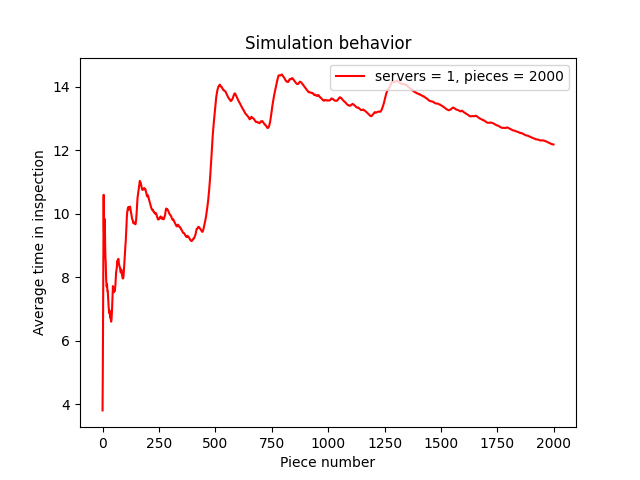
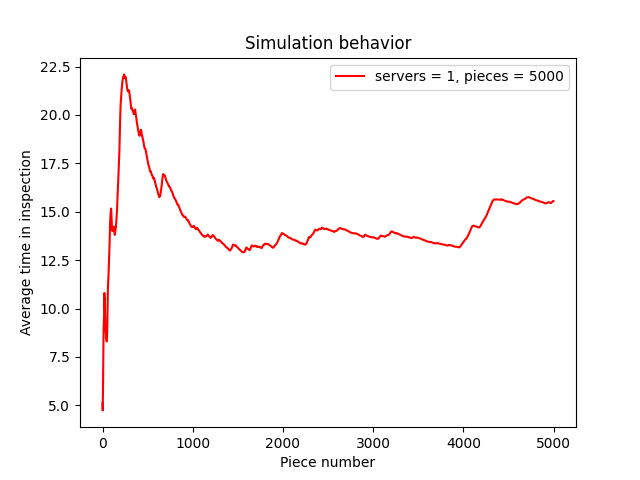
Dos servidores listos

diff --git a/two_servers.py b/two_servers.py
@@ -1,0 +1,58 @@
+import numpy as np
+from rand_tools import dist_exponential, dist_normal
+import matplotlib.pyplot as plt
+from mixto import rand_mix
+
+
+def get_n_rands(n):
+    rands = []
+    for _ in range(n):
+        rands.append(rand_mix(from_txt="txts/poker_variables"))
+    return tuple(rands)
+
+
+def run_simulation(n_pieces, l, mean, sd):
+    """
+    Funcion para simular una linea de produccion a partir de una cantidad
+    de piezas
+    """
+    inspection_times = []
+    prev_arrival = 0
+    prev_inspection_end_a = 0
+    prev_inspection_end_b = 0
+    for piece in range(n_pieces):
+        # Random values
+        r, u1, u2 = get_n_rands(3)
+        exp_t = dist_exponential(l, r)
+        norm_t = dist_normal(u1, u2, mean, sd)
+        # Arrival vals
+        arrival = prev_arrival + exp_t
+        if not prev_arrival:
+            inspection_start_a = arrival
+            inspection_start_b = 0
+            prev_inspection_end_a = inspection_start_a + norm_t
+            prev_inspection_end_b = 0
+        else:
+            inspection_start_a = arrival if prev_inspection_end_a > prev_inspection_end_b else min(prev_inspection_end_a, prev_inspection_end_b)
+            inspection_start_b = arrival if prev_inspection_end_a < prev_inspection_end_b else min(prev_inspection_end_a, prev_inspection_end_b)
+            prev_inspection_end_a = prev_inspection_end_a if inspection_start_a == 0 else inspection_start_a + norm_t
+            prev_inspection_end_b = prev_inspection_end_b if inspection_start_b == 0 else inspection_start_b + norm_t
+        prev_arrival = arrival
+        # Inspection vals
+        inspection_times.append(max(inspection_start_a, inspection_start_b) + norm_t - arrival)
+    return inspection_times
+
+
+pieces = 5000
+ins_times = run_simulation(pieces, l=5, mean=4, sd=0.5)
+
+x = range(len(ins_times))
+# Get averages
+y = [np.mean(ins_times[:piece + 1]) for piece in range(len(ins_times))]
+# Graph
+plt.title("Simulation behavior")
+plt.xlabel("Piece number")
+plt.ylabel("Average time in inspection")
+plt.plot(x, y, color="red")
+plt.legend([f"servers = {1}, pieces = {pieces}"], loc="upper right")
+plt.savefig("graphs/two_servers.png")

diff --git a/var_generator.py b/var_generator.py
@@ -74,15 +74,20 @@ def generate_variables(n):
     return variables, attempts
 
 
-if __name__ == "__main__":
+def main():
     # python3 -m timeit -n 1000 -s 'from var_generator import generate_variables' 'generate_variables(1)'
     # print(timeit(lambda: generate_variables(1), number=1000))
-    times = 100000
+    times = 1000
     start = time()
-    for _ in range(times):
-        # a, c, m, seed = select_next_variables()
-        # check_full_period(1001, 821, 11597, 96)
-        check_full_period(*select_next_variables())
+    # for _ in range(times):
+    #     # a, c, m, seed = select_next_variables()
+    #     # check_full_period(1001, 821, 11597, 96)
+    #     check_full_period(*select_next_variables())
+    generate_variables(times)
     end = time()
     duration = end - start
     print(f"Time for {times}: {round(duration * 1000,2)} ms")
+
+
+if __name__ == "__main__":
+    main()

diff --git a/one_server.py b/one_server.py
@@ -35,7 +35,7 @@ def run_simulation(n_pieces, l, mean, sd):
     return inspection_times
 
 
-pieces = 2000
+pieces = 5000
 ins_times = run_simulation(pieces, l=5, mean=4, sd=0.5)
 
 x = range(len(ins_times))
